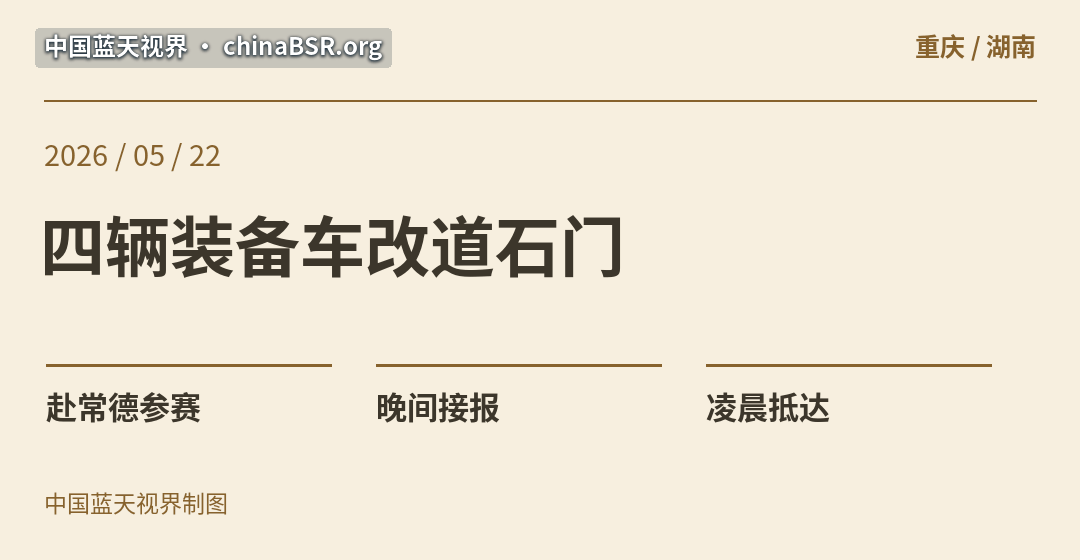
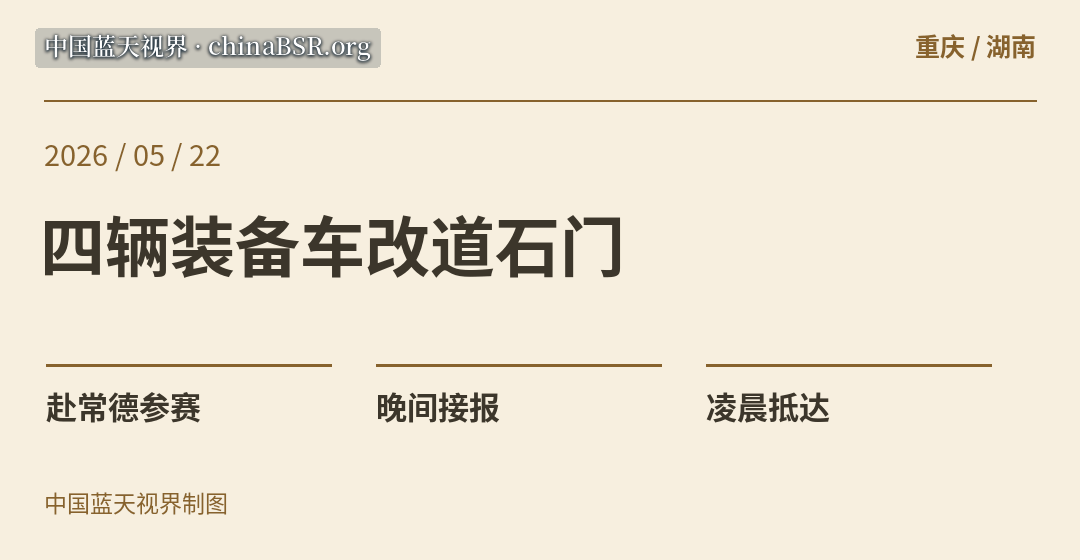
图片标识统一采用思源宋体半粗，保留浅透明底

Changed region(s): [[0.0306, 0.0304, 0.3667, 0.1214]]

diff --git a/assets/site.css b/assets/site.css
@@ -1,1 +1,1 @@
-*{box-sizing:border-box}body{margin:0;color:#16354b;background:#f6f8f9;font:1rem/1.85 system-ui,"Microsoft YaHei",sans-serif}.wrap{width:min(90%,72rem);margin:auto}header{border-bottom:1px solid #ccd8df}header .wrap,.foot{display:flex;justify-content:space-between;gap:1.5rem;padding:1.2rem 0;align-items:center}.brand{font-size:1.25rem;font-weight:750;text-decoration:none}.brand span{color:#087ba7}nav{display:flex;gap:1.2rem}a{color:#075c91;text-underline-offset:.2em}a:focus-visible,button:focus-visible{outline:3px solid #d67b20;outline-offset:3px}.content{padding:2.5rem 0 4rem}h1{font-size:clamp(1.9rem,4vw,3rem);line-height:1.4}h2{font-size:1.4rem;line-height:1.5}.lead{font-size:1.1rem;color:#496373}.cards{display:grid;grid-template-columns:repeat(3,1fr);gap:1.5rem}.card{background:white;border:1px solid #dce5ea;border-radius:.6rem;overflow:hidden;text-decoration:none;color:inherit}.card img{width:100%;height:200px;object-fit:cover}.card div{padding:1.1rem}.card h2{font-size:1.15rem}.card p{color:#496373}.card span,.meta{color:#526979;font-size:.9rem}.article{max-width:48rem;margin:auto}.article p{line-height:2}.article figure{margin:2rem 0}.article img{width:100%;max-height:480px;object-fit:cover}.article figcaption{font-size:.85rem;color:#526979}.sources,.related{border-top:1px solid #ccd8df;margin-top:2rem;padding-top:1rem}.filters{display:flex;gap:.7rem;flex-wrap:nowrap;overflow-x:auto;max-width:100%;margin:1.5rem 0;padding-bottom:.35rem;-webkit-overflow-scrolling:touch}.filters button{flex:0 0 auto;white-space:nowrap}.filters button{font:inherit;border:1px solid #b5c8d3;padding:.4rem .9rem;border-radius:2rem;background:white;color:#16354b;cursor:pointer}.filters button[aria-pressed=true]{background:#16354b;color:white}footer{background:#102739;color:#cbdce6;padding:1rem 0 1.5rem}footer a{color:white}.foot nav{display:grid}.footnote{font-size:.9rem;border-top:1px solid #375367;padding-top:1rem}.home-news{padding:3rem 0}.card[hidden]{display:none}@media(max-width:800px){.cards{grid-template-columns:repeat(2,1fr)}}@media(max-width:550px){.cards{grid-template-columns:1fr}header .wrap,.foot{align-items:flex-start;flex-direction:column;gap:.6rem}nav{gap:1rem}.content{padding-top:1.5rem}}.latest-news{padding:0;list-style:none}.latest-news li{display:flex;gap:1em;align-items:baseline;padding:.6em 0;border-bottom:1px solid #dce5ea}.latest-news time,.news-list time{white-space:nowrap;color:#526979;font-size:.85rem}.news-list:has(.card:not([hidden])){margin-bottom:1.5rem}.photo-feature{display:grid;grid-template-columns:minmax(0,1fr) minmax(0,1fr);align-items:center;margin:1rem 0 1.5rem}.photo-feature img{display:block;height:auto}.photo-feature h2{font-size:clamp(1.15rem,2vw,1.65rem)}@media(max-width:600px){.photo-feature{grid-template-columns:1fr}}.story-nav{display:grid;grid-template-columns:repeat(2,minmax(0,1fr));margin:2rem 0;border-block:1px solid #ccd8df}.story-nav a{padding:.85rem 0;text-decoration:none}.story-nav a:hover,.story-nav a:focus-visible{text-decoration:underline}.story-nav small{display:block;color:#526979}.story-nav [rel=next]{grid-column:2}.news-list img{height:auto;aspect-ratio:1080/560;object-fit:contain;display:block}@media(max-width:600px){.story-nav{grid-template-columns:1fr;gap:0}.story-nav [rel=next]{grid-column:auto}}.archive-photo{position:relative;display:block}.archive-photo img{display:block}.archive-photo::after,.hero::after{content:"中国蓝天视界 · chinaBSR.org";position:absolute;top:.65rem;left:.75rem;z-index:1;color:white;background:rgba(9,29,45,.20);text-shadow:0 1px 2px rgba(9,29,45,.85);padding:.12rem .43rem;border-radius:.18rem;font:600 clamp(.68rem,1.1vw,.84rem)/1.5 system-ui,sans-serif;white-space:nowrap;pointer-events:none}
+*{box-sizing:border-box}body{margin:0;color:#16354b;background:#f6f8f9;font:1rem/1.85 system-ui,"Microsoft YaHei",sans-serif}.wrap{width:min(90%,72rem);margin:auto}header{border-bottom:1px solid #ccd8df}header .wrap,.foot{display:flex;justify-content:space-between;gap:1.5rem;padding:1.2rem 0;align-items:center}.brand{font-size:1.25rem;font-weight:750;text-decoration:none}.brand span{color:#087ba7}nav{display:flex;gap:1.2rem}a{color:#075c91;text-underline-offset:.2em}a:focus-visible,button:focus-visible{outline:3px solid #d67b20;outline-offset:3px}.content{padding:2.5rem 0 4rem}h1{font-size:clamp(1.9rem,4vw,3rem);line-height:1.4}h2{font-size:1.4rem;line-height:1.5}.lead{font-size:1.1rem;color:#496373}.cards{display:grid;grid-template-columns:repeat(3,1fr);gap:1.5rem}.card{background:white;border:1px solid #dce5ea;border-radius:.6rem;overflow:hidden;text-decoration:none;color:inherit}.card img{width:100%;height:200px;object-fit:cover}.card div{padding:1.1rem}.card h2{font-size:1.15rem}.card p{color:#496373}.card span,.meta{color:#526979;font-size:.9rem}.article{max-width:48rem;margin:auto}.article p{line-height:2}.article figure{margin:2rem 0}.article img{width:100%;max-height:480px;object-fit:cover}.article figcaption{font-size:.85rem;color:#526979}.sources,.related{border-top:1px solid #ccd8df;margin-top:2rem;padding-top:1rem}.filters{display:flex;gap:.7rem;flex-wrap:nowrap;overflow-x:auto;max-width:100%;margin:1.5rem 0;padding-bottom:.35rem;-webkit-overflow-scrolling:touch}.filters button{flex:0 0 auto;white-space:nowrap}.filters button{font:inherit;border:1px solid #b5c8d3;padding:.4rem .9rem;border-radius:2rem;background:white;color:#16354b;cursor:pointer}.filters button[aria-pressed=true]{background:#16354b;color:white}footer{background:#102739;color:#cbdce6;padding:1rem 0 1.5rem}footer a{color:white}.foot nav{display:grid}.footnote{font-size:.9rem;border-top:1px solid #375367;padding-top:1rem}.home-news{padding:3rem 0}.card[hidden]{display:none}@media(max-width:800px){.cards{grid-template-columns:repeat(2,1fr)}}@media(max-width:550px){.cards{grid-template-columns:1fr}header .wrap,.foot{align-items:flex-start;flex-direction:column;gap:.6rem}nav{gap:1rem}.content{padding-top:1.5rem}}.latest-news{padding:0;list-style:none}.latest-news li{display:flex;gap:1em;align-items:baseline;padding:.6em 0;border-bottom:1px solid #dce5ea}.latest-news time,.news-list time{white-space:nowrap;color:#526979;font-size:.85rem}.news-list:has(.card:not([hidden])){margin-bottom:1.5rem}.photo-feature{display:grid;grid-template-columns:minmax(0,1fr) minmax(0,1fr);align-items:center;margin:1rem 0 1.5rem}.photo-feature img{display:block;height:auto}.photo-feature h2{font-size:clamp(1.15rem,2vw,1.65rem)}@media(max-width:600px){.photo-feature{grid-template-columns:1fr}}.story-nav{display:grid;grid-template-columns:repeat(2,minmax(0,1fr));margin:2rem 0;border-block:1px solid #ccd8df}.story-nav a{padding:.85rem 0;text-decoration:none}.story-nav a:hover,.story-nav a:focus-visible{text-decoration:underline}.story-nav small{display:block;color:#526979}.story-nav [rel=next]{grid-column:2}.news-list img{height:auto;aspect-ratio:1080/560;object-fit:contain;display:block}@media(max-width:600px){.story-nav{grid-template-columns:1fr;gap:0}.story-nav [rel=next]{grid-column:auto}}@font-face{font-family:BSRMark;src:url(/assets/fonts/brand-serif.otf) format("opentype");font-weight:600;font-display:swap}.archive-photo{position:relative;display:block}.archive-photo img{display:block}.archive-photo::after,.hero::after{content:"中国蓝天视界 · chinaBSR.org";position:absolute;top:.65rem;left:.75rem;z-index:1;color:white;background:rgba(9,29,45,.20);text-shadow:0 1px 2px rgba(9,29,45,.85);padding:.12rem .43rem;border-radius:.18rem;font:600 clamp(.68rem,1.1vw,.84rem)/1.5 BSRMark,serif;white-space:nowrap;pointer-events:none}

diff --git a/build.py b/build.py
@@ -24,7 +24,7 @@ css='''*{box-sizing:border-box}body{margin:0;color:#16354b;background:#f6f8f9;fo
 css += '.latest-news{padding:0;list-style:none}.latest-news li{display:flex;gap:1em;align-items:baseline;padding:.6em 0;border-bottom:1px solid #dce5ea}.latest-news time,.news-list time{white-space:nowrap;color:#526979;font-size:.85rem}.news-list:has(.card:not([hidden])){margin-bottom:1.5rem}'
 css += '.photo-feature{display:grid;grid-template-columns:minmax(0,1fr) minmax(0,1fr);align-items:center;margin:1rem 0 1.5rem}.photo-feature img{display:block;height:auto}.photo-feature h2{font-size:clamp(1.15rem,2vw,1.65rem)}@media(max-width:600px){.photo-feature{grid-template-columns:1fr}}'
 css += '.story-nav{display:grid;grid-template-columns:repeat(2,minmax(0,1fr));margin:2rem 0;border-block:1px solid #ccd8df}.story-nav a{padding:.85rem 0;text-decoration:none}.story-nav a:hover,.story-nav a:focus-visible{text-decoration:underline}.story-nav small{display:block;color:#526979}.story-nav [rel=next]{grid-column:2}.news-list img{height:auto;aspect-ratio:1080/560;object-fit:contain;display:block}@media(max-width:600px){.story-nav{grid-template-columns:1fr;gap:0}.story-nav [rel=next]{grid-column:auto}}'
-css += '.archive-photo{position:relative;display:block}.archive-photo img{display:block}.archive-photo::after,.hero::after{content:"中国蓝天视界 · chinaBSR.org";position:absolute;top:.65rem;left:.75rem;z-index:1;color:white;background:rgba(9,29,45,.20);text-shadow:0 1px 2px rgba(9,29,45,.85);padding:.12rem .43rem;border-radius:.18rem;font:600 clamp(.68rem,1.1vw,.84rem)/1.5 system-ui,sans-serif;white-space:nowrap;pointer-events:none}'
+css += '@font-face{font-family:BSRMark;src:url(/assets/fonts/brand-serif.otf) format("opentype");font-weight:600;font-display:swap}.archive-photo{position:relative;display:block}.archive-photo img{display:block}.archive-photo::after,.hero::after{content:"中国蓝天视界 · chinaBSR.org";position:absolute;top:.65rem;left:.75rem;z-index:1;color:white;background:rgba(9,29,45,.20);text-shadow:0 1px 2px rgba(9,29,45,.85);padding:.12rem .43rem;border-radius:.18rem;font:600 clamp(.68rem,1.1vw,.84rem)/1.5 BSRMark,serif;white-space:nowrap;pointer-events:none}'
 write('assets/site.css',css)
 news = sorted(json.loads((R/'content/news.json').read_text()), key=lambda a: a['when'], reverse=True)
 catalog = {a['slug']: a for a in articles + news}
